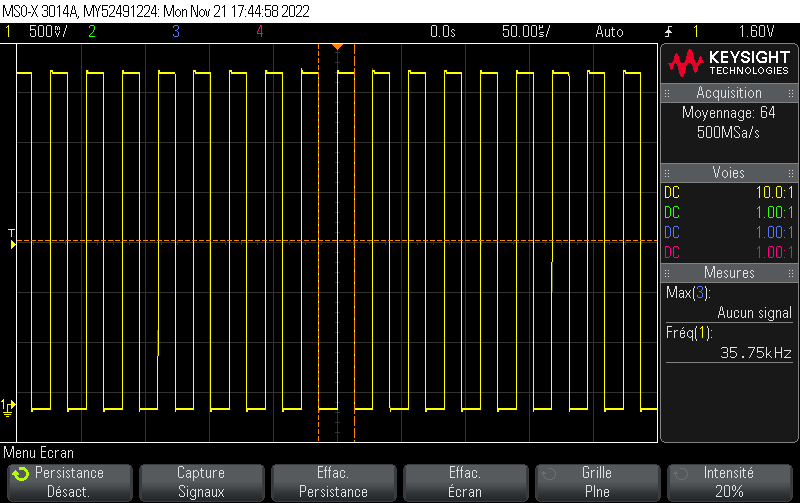
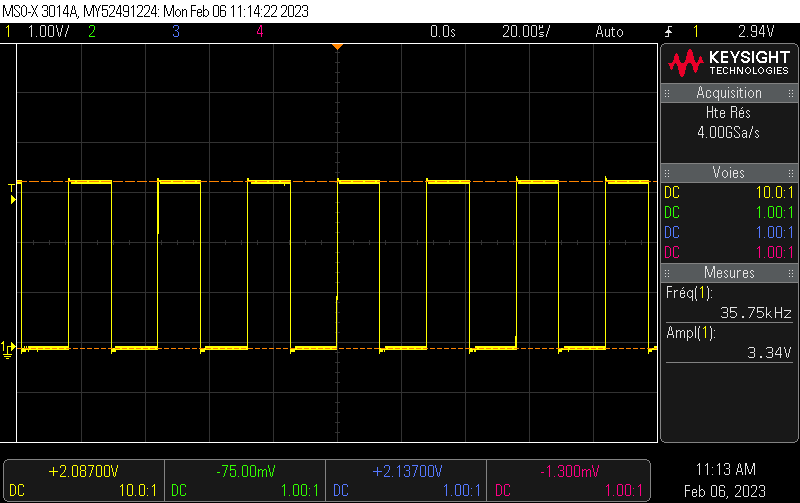
infrared page

diff --git a/overrides/partials/comments.html b/overrides/partials/comments.html
@@ -1,5 +1,7 @@
 {% if page.meta.comments %}
   <h2 id="__comments">{{ lang.t("meta.comments") }}</h2>
+
+  <div class="giscus"></div>
   <!-- Insert generated snippet here -->
   <script src="https://giscus.app/client.js"
     data-repo="Julien-768/rfid_m0"

diff --git a/docs/Infrared.md b/docs/Infrared.md
@@ -1,20 +1,10 @@
 # Infrared functionnality
 
-## Barrière infrarouge
-
-Cette barrière infrarouge modulé à 36kHz filtre les rayonnements infrarouges ambiants naturels, et s'affranchit de la luminosité de l'environnement.
-
-### Description
+## Description
 
 La barrière infrarouge utilise le principe et les composants destinés aux télécommandes infrarouges. En effet, on émet une lumière pulsée infrarouge à une certaine fréquence (36kHz). En face on place un photo détecteur qui passe à l'état bas seulement si il détecte un rayonnement IR à cette fréquence. Ainsi Ces capteurs infrarouge fonctionnent en tout ou rien. On ne peut pas régler la distance de détection. Plus le rayonnement Infrarouge est intense plus la barrière infrarouge peut être grande (plusieurs mètres).
 
-### Émetteur Infrarouge
-
-![Picture IR emitter](./uploads/faf76029d4c4bf6ed90eff264ebd9dab/image.png){: style="width:200px"}
-
-Cathode (-) patte la plus courte (pas de méplat visible)
-
-### Software used to generate a 36 kHz Pulsed Width Modulation
+## Software used to generate a 36 kHz Pulsed Width Modulation
 
 For generating a PWM on the Feather M0, we use the SAMD21 turbo PWM library on an available [PWM pin](./assets/images/TODO/Pinout_Feather_M0.png)
 
@@ -34,29 +24,53 @@ pwm.analogWrite(PIN_IR_PWM, 500);   // PWM frequency is now around 36KHz, dutycy
 ```
 <!-- markdownlint-enable MD010 -->
 
-### PWM output generated
+## PWM 36kHz - output generated
 
+<!-- markdownlint-disable MD033 -->
 <a href="../assets/images/TODO/Scope_IR_Modulation_output_1.png">
 <img src="../assets/images/TODO/Scope_IR_Modulation_output_1.png" width="400">
 </a>
+<!-- markdownlint-enable MD033 -->
 
 Measurement made on the pin output of the Feather M0 without any Infrared emitter connected.
 
-### Phototransistor TSOP34536
+The Infrared emitter has an wide opening angle. For testing purpose, use heat shrink or wrap black tape around it to create a kind of pipe and reduce the opening angle.
+
+## Infrared receiver - input read
+
+<!-- markdownlint-disable MD033 -->
+<a href="../assets/images/TODO/Scope_IR_input_1.png">
+<img src="../assets/images/TODO/Scope_IR_input_1.png" width="400">
+</a>
+<!-- markdownlint-enable MD033 -->
+
+Measurement made on the pin output of the Phototransistor TSOP34536.
+
+## Émetteur Infrarouge
+
+![Picture IR emitter](./uploads/faf76029d4c4bf6ed90eff264ebd9dab/image.png){: style="width:200px"}
+
+Cathode (-) patte la plus courte (pas de méplat visible)
+
+## Phototransistor TSOP34536
 
 ![phototransistor](./uploads/9e841f54ce27092b014421e1b7e74c72/phototransistor.png){: style="width:300px"}
 
 Alimentation de 2.5V à 5.5V
 
-[datasheet TSOP34536.pdf](./uploads/8c364017c2e34e7aed8ab30ff57f4c3e/datasheetTSOP34536.pdf)
+[datasheet.pdf](https://www.vishay.com/doc?82490)
 
-## Exemples/Tuto
+## Phototransistor TSOP31536
+
+[datasheet.pdf](https://www.vishay.com/doc?82493)
+
+## Examples on the web
 
 * Comptage par franchissement d'une barrière infrarouge avec Arduino
 UNO
 <http://makerspace56.org/comptage-par-franchissement-dune-barriere-infrarouge/>
 
-* Youtube la grotte du geek, code écrit par l\'environnement
+* Youtube la grotte du geek, code écrit pour l'environnement
 STM32CubeIDE
 <https://www.youtube.com/watch?v=\_tcBtZZDsCE>
 

diff --git a/docs/Elec_boards_TODO.md b/docs/Elec_boards_TODO.md
@@ -7,27 +7,33 @@ comments: true
 ## Toutes les cartes
 
 * Passer le projet sous KICAD
-* Passer le maximum de composants en CMS et s'assurer de l'assemblage par le sous-traitant
+* Passer le maximum de composants en CMS
 * Noter le nom des pins sur les 2 côtés des cartes
 
-## Main board 12V
+## Main board
 
 * Noter sur le schéma le nom des pins des connecteurs (actuellement vide, seul est noté le nom du connecteur)
+* Une fois les composants montés, la désignation de certains n'est plus visible : Q12 / Q13 / R8 / C3
+* Le condensateur Q13 est monté plié avec sa référence vers le dessous, ce qui ne permet pas de connaître le composant une fois monté. Idéalement il faudrait inverser son sens de montage.
+* Le connecteur JST PW_mng est trop près du condensateur Q12, ce qui rend délicate sa manipulation. Il faudrait remonter ce connecteur de quelques millimètres (ça pourrait d'ailleurs laisser de la place pour mettre la désignation de Q12).
+* Le condensateur C1 gêne le passage du câble micro-USB. Il faudrait le décaler de 5 à 10 mm (et faire suivre sa désignation) vers la gauche pour avoir la place de passer l'USB et le manipuler avec les doigts.
+
+![Capture](./assets/images/TODO/Main_board_mods.png){: style="width:400px"}
 
 ## Power board 5V
 
 * Les capacités C2 100 nF et C3 100 nF sont à remplacer par des CMS du type 0805 105K X7R 50V SMD en taille 1206. C2 ne doit pas être un composant discret (génant une fois la carte fille placée).
-* Une piste de la carte power doit être coupée: celle qui connecte la tension batterie au power boost. Normalement un interrupteur d'arrêt doit permettre de couper l'alimentation entre batterie et le reste du système. Or cette piste fait une connexion permanente. [EDIT: Modif déjà apportée sur fritzing le 04/08/2022]
+* Une piste de la carte power doit être coupée: celle qui connecte la tension batterie au power boost. Normalement un interrupteur d'arrêt doit permettre de couper l'alimentation entre batterie et le reste du système. Or cette piste fait une connexion permanente. (Modif déjà apportée sur fritzing le 04/08/2022).
 * La position des 4 trous est à changer. Deux sont trop proches du chargeur solaire (court circuit avec les vis). Un autre est trop proche du condensateur C4 (court circuit) . Un dernier est trop proche du bornier à vis.
 * supprimer la double rangée du connecteur PW, une simple rangée suffit
-* * les pin PW GND et 5V ne sont pas visibles avec le condensateur plié, les mettre en bord de carte / agrandir de 2.54 mm la carte.
+* les pin PW GND et 5V ne sont pas visibles avec le condensateur plié, les mettre en bord de carte / agrandir de 2.54 mm la carte.
 
 ![Capture](./assets/images/TODO/Power_board%205V%20trous.png){: style="width:400px"}
 
 ## Power board 12V
 
 * Prévoir les emplacements pour connecter les câbles des émetteurs infrarouge et des photo-transistors: 4 x 3V3 et 4 x GND.
-* Enelever les empreintes sous les cartes Adafruit.
+* Enlever les empreintes sous les cartes Adafruit.
 
 ## Interface board
 
